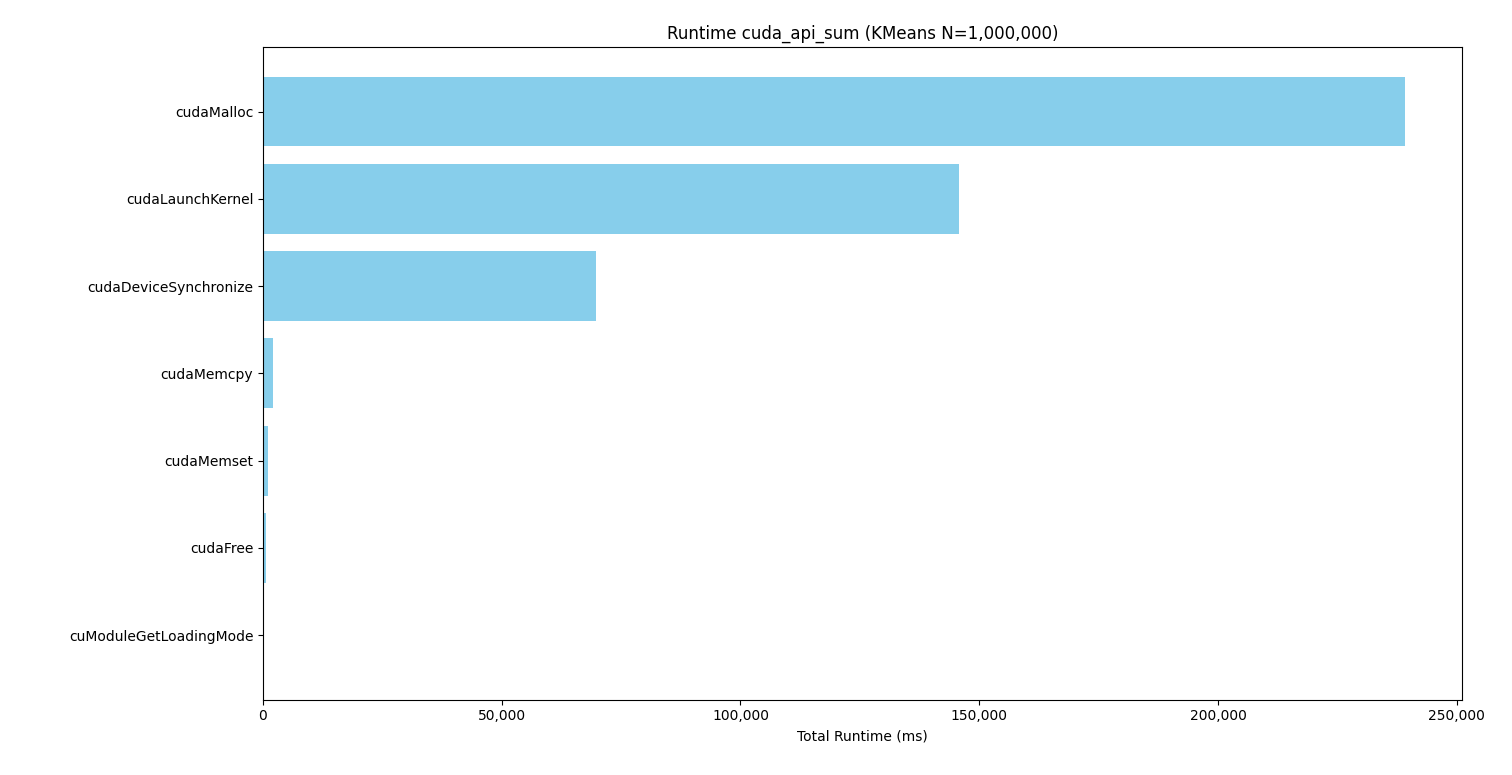
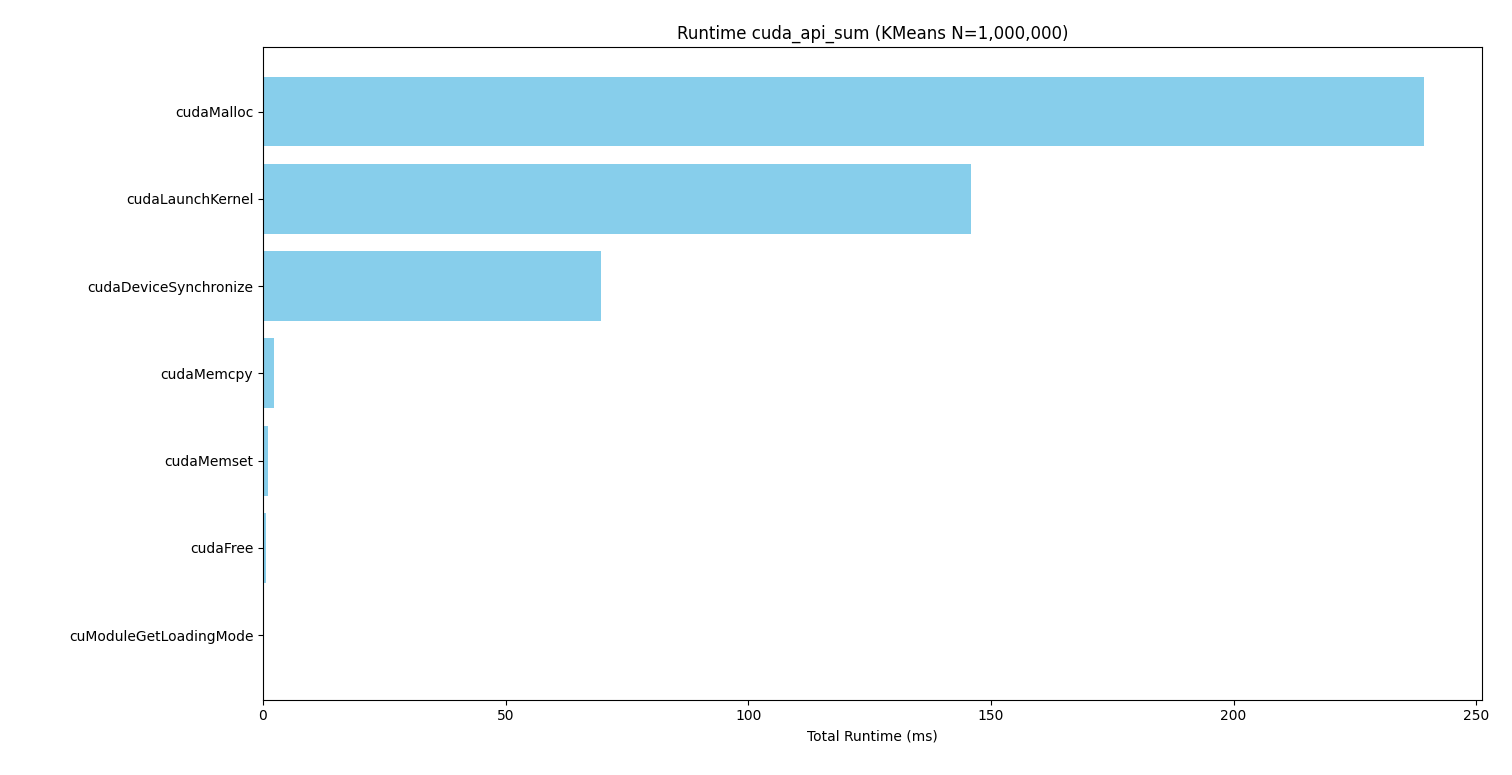
Nsight performance with correct ns to ms conversion

diff --git a/README.md b/README.md
@@ -2,6 +2,7 @@
 
 Tested with 1,000,000 2d data points with 3 clusters on T4.  
 
+![CUDA KMeans Performance Test Table 1](https://raw.githubusercontent.com/Tyler-Hilbert/CUDA-KMeans/main/Performance/Table1.png)  
 ## Table 1: 'cuda_api_sum'  
  |  Time (%) | Total Time (ns) | Num Calls | Avg (ns) | Med (ns) | Min (ns) | Max (ns) | StdDev (ns) | Name |  
  |-----------|-----------------|-----------|----------|----------|----------|----------|-------------|------|
@@ -13,12 +14,14 @@ Tested with 1,000,000 2d data points with 3 clusters on T4.
  | 0.1 | 618,662 | 4 | 154,665.5 | 128,489.5 | 4,173 | 357,510 | 174,656.6 | cudaFree |  
  | 0.0 | 724 | 1 | 724.0 | 724.0 | 724 | 724 | 0.0 | cuModuleGetLoadingMode |  
 
+![CUDA KMeans Performance Test Table 2](https://raw.githubusercontent.com/Tyler-Hilbert/CUDA-KMeans/main/Performance/Table2.png)  
 ## Table 2: 'cuda_gpu_kern_sum'  
  |  Time (%) | Total Time (ns) | Instances | Avg (ns) | Med (ns) | Min (ns) | Max (ns) | StdDev (ns) | Name |  
  |-----------|-----------------|-----------|----------|----------|----------|----------|-------------|------|  
  | 100.0 | 69,530,116 | 10 | 6,953,011.6 | 7,021,011.0 | 6,340,969 | 7,021,123 | 215,049.9 | sum_and_count |  
  | 0.0 | 33,087 | 10 | 3,308.7 | 3,296.0 | 3,264 | 3,392 | 34.4 | update_centroids |  
 
+![CUDA KMeans Performance Test Table 3](https://raw.githubusercontent.com/Tyler-Hilbert/CUDA-KMeans/main/Performance/Table3.png)  
 ## Table 3: 'cuda_gpu_mem_time_sum'  
  |  Time (%) | Total Time (ns) | Count | Avg (ns) | Med (ns) | Min (ns) | Max (ns) | StdDev (ns) | Operation |  
  |-----------|-----------------|-------|----------|----------|----------|----------|-------------|-----------|  
